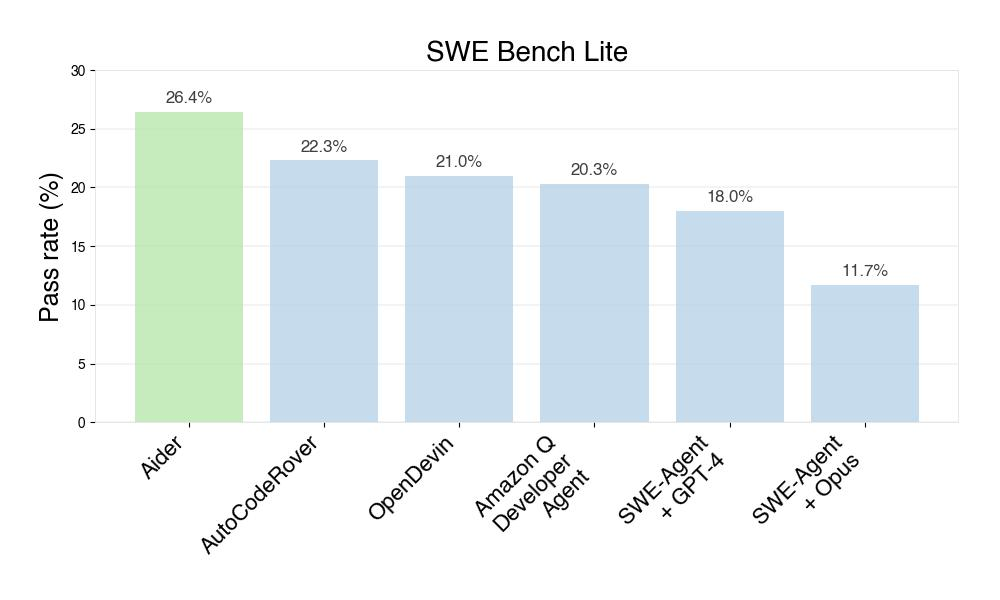
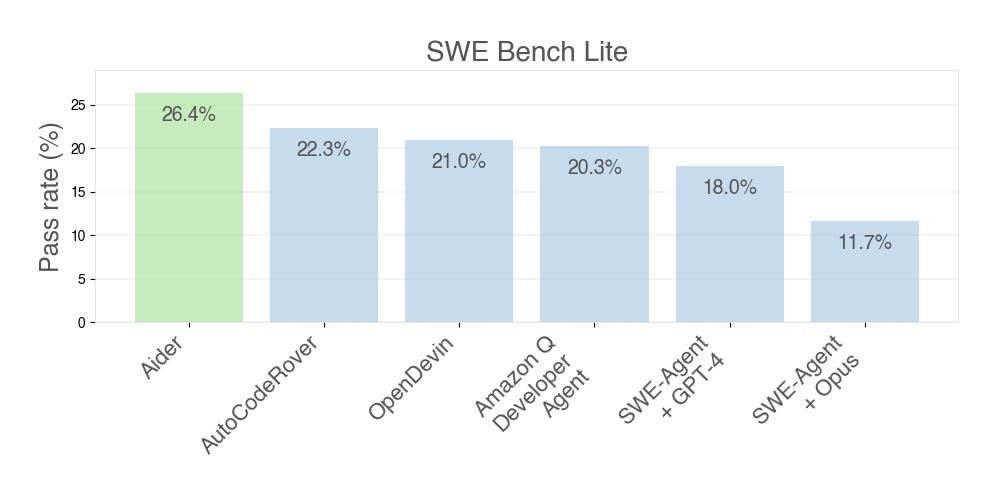
copy

diff --git a/benchmark/swe_bench_lite.py b/benchmark/swe_bench_lite.py
@@ -21,8 +21,9 @@ def plot_swe_bench_lite(data_file):
     plt.rcParams["hatch.linewidth"] = 0.5
     plt.rcParams["hatch.color"] = "#444444"
 
+    font_color = "#555"
     rc("font", **{"family": "sans-serif", "sans-serif": ["Helvetica"], "size": 10})
-    plt.rcParams["text.color"] = "#555"
+    plt.rcParams["text.color"] = font_color
 
     fig, ax = plt.subplots(figsize=(10, 5))
     ax.grid(axis="y", zorder=0, lw=0.2)
@@ -37,24 +38,24 @@ def plot_swe_bench_lite(data_file):
         yval = bar.get_height()
         ax.text(
             bar.get_x() + bar.get_width() / 2,
-            yval + 0.5,
+            yval - 1.5,
             f"{yval}%",
             ha="center",
-            va="bottom",
-            fontsize=12,
-            alpha=0.75,
+            va="top",
+            fontsize=14,
+            # alpha=0.75,
         )
 
     # ax.set_xlabel("Models", fontsize=18)
-    ax.set_ylabel("Pass rate (%)", fontsize=18, color="#555")
+    ax.set_ylabel("Pass rate (%)", fontsize=18, color=font_color)
     ax.set_title("SWE Bench Lite", fontsize=20)
-    ax.set_ylim(0, 30)
-    plt.xticks(rotation=45, ha="right", fontsize=16)
+    ax.set_ylim(0, 29)
+    plt.xticks(rotation=45, ha="right", fontsize=16, color=font_color)
     plt.tight_layout(pad=3.0)
     plt.savefig("swe_bench_lite.jpg")
     plt.savefig("swe_bench_lite.svg")
     imgcat(fig)
-    ax.xaxis.label.set_color("#555")
+    ax.xaxis.label.set_color(font_color)
 
 
 # Example usage

diff --git a/_posts/2024-05-22-swe-bench-lite.md b/_posts/2024-05-22-swe-bench-lite.md
@@ -5,8 +5,6 @@ highlight_image: /assets/swe_bench_lite.jpg
 draft: true
 ---
 
-[![SWE Bench Lite results](/assets/swe_bench_lite.svg)](https://aider.chat/assets/swe_bench_lite.svg)
-
 # Aider scores SOTA 26.3% on SWE Bench Lite
  
 Aider scored 26.3%
@@ -16,6 +14,8 @@ The current top leaderboard entry is 20.33%
 from Amazon Q Developer Agent.
 The best result reported elsewhere online seems to be
 [22.3% from AutoCodeRover](https://github.com/nus-apr/auto-code-rover).
+
+[![SWE Bench Lite results](/assets/swe_bench_lite.svg)](https://aider.chat/assets/swe_bench_lite.svg)
 
 ## Interactive, not agentic
 
